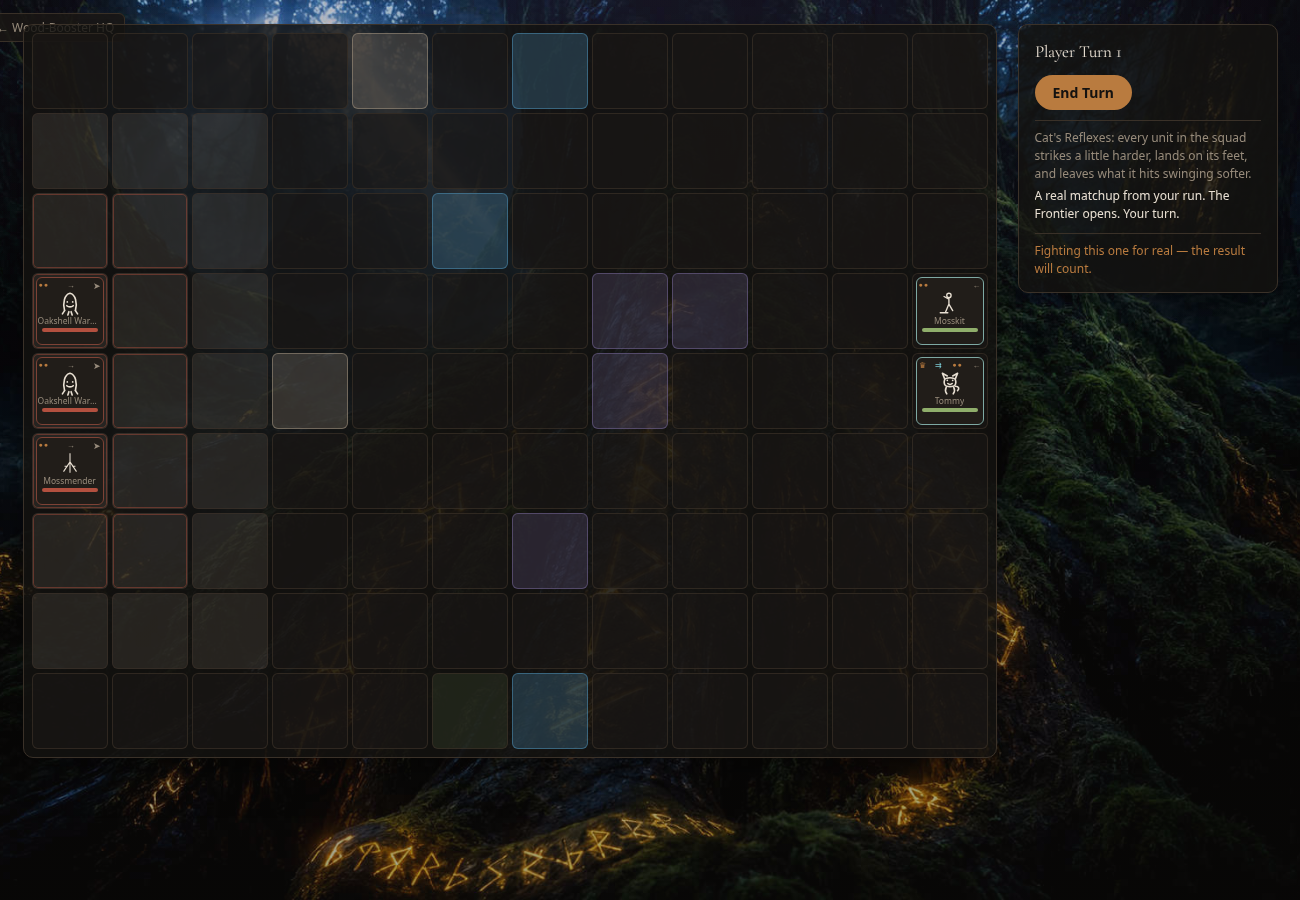
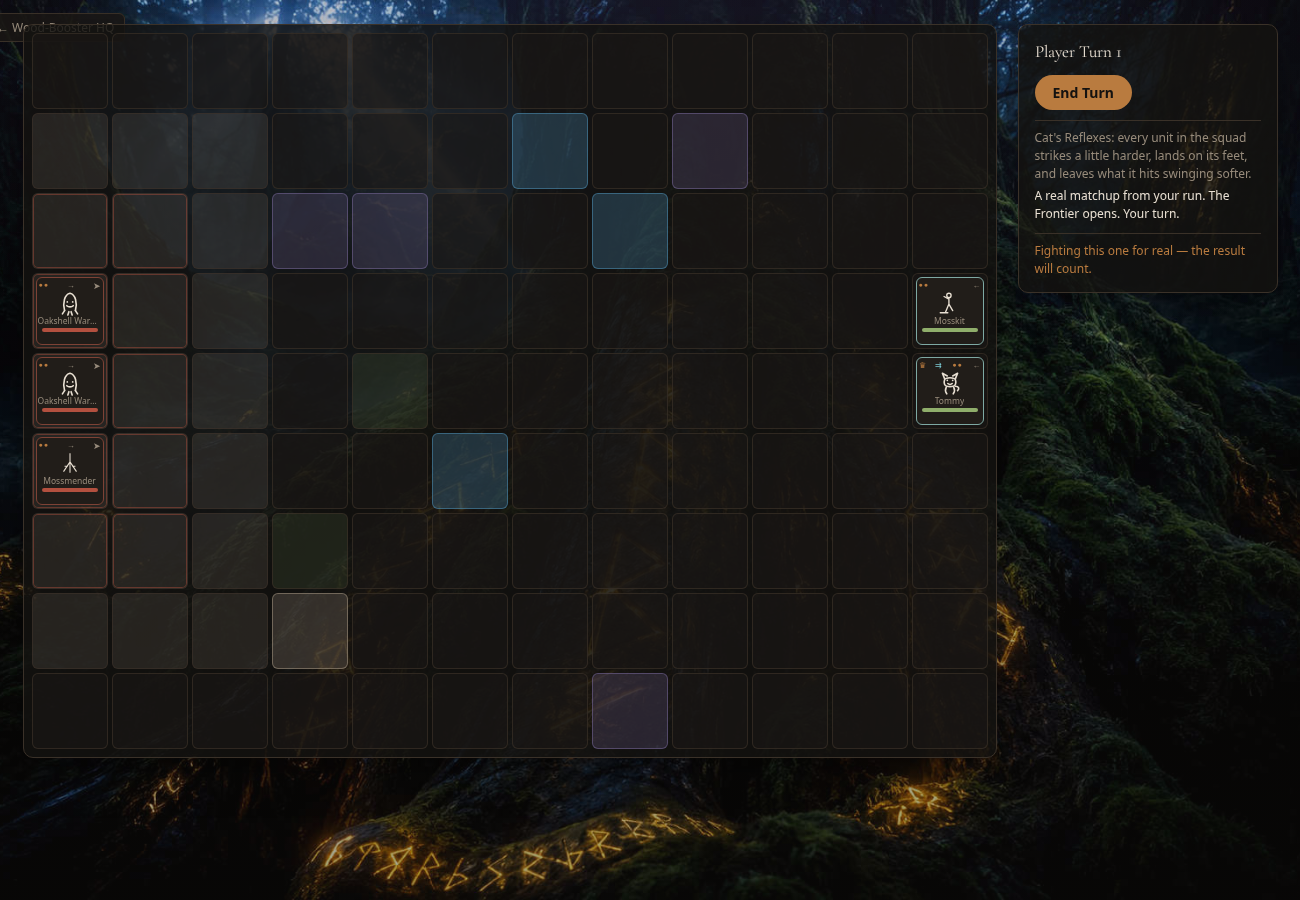
Hearthwood Frontier: Difficulty-scaled terrain type mix
The direct follow-up to the terrain density round, which deliberately
left the hazard TYPE mix untouched. Forest (the one zero-effect,
purely cosmetic terrain id - cost 1, identical to plain path) now
shrinks its own share as the Act rises, with what it loses
redistributed proportionally across the 3 real hazards (rock/water/
poison), keeping their existing 30:20:25 relative flavor unchanged.
Act I stays byte-identical to today's own 30/20/25/25 split; by Act
VII the real-hazard share rises from 75% to 93%.

Extended both verify suites (205->210 prototype checks, 35->36
real-battle checks), all passing on the first combined run with 0
page errors.

diff --git a/src/services/heartwood/tacticsRealMatchup.js b/src/services/heartwood/tacticsRealMatchup.js
@@ -39,10 +39,48 @@ const PREVIEWABLE_PHASES = new Set(["formation", "battle"])
 // just the STARTING point (Act I keeps exactly this value) - see
 // terrainHazardCountForNode below for the real per-Act scaling.
 const TERRAIN_HAZARD_COUNT_BASE = 6
-function pickTerrainType(roll) {
-  if (roll < 0.3) return "rock"
-  if (roll < 0.5) return "water"
-  if (roll < 0.75) return "poison"
+
+// Difficulty-scaled terrain TYPE MIX round: forest is the only
+// zero-effect id of the 4 (cost:1 in tacticsEngine.js's own TERRAIN
+// map, byte-identical to plain "path") - rock/water/poison are the 3
+// real hazards. Forest's own share shrinks as the Act rises, and what
+// it loses is redistributed PROPORTIONALLY across the 3 real hazards,
+// keeping their own existing 30:20:25 relative flavor (a 6:4:5 ratio)
+// unchanged - a single clean scaling axis, not a second "which hazard
+// gets scarier" tuning pass nobody asked for. FOREST_WEIGHT_BASE=0.25
+// keeps Act I at EXACTLY today's own 30/20/25/25 split (the same "Act
+// I unchanged" guarantee terrainHazardCountForNode below already
+// established for density). FOREST_WEIGHT_FLOOR is a forward-looking
+// safety net only - never actually engaged within today's real Acts
+// 1-7 (Act VII's own forest share is 0.07, above the 0.05 floor).
+const FOREST_WEIGHT_BASE = 0.25
+const FOREST_WEIGHT_PER_ACT_DROP = 0.03
+const FOREST_WEIGHT_FLOOR = 0.05
+const HAZARD_RELATIVE_WEIGHTS = { rock: 6, water: 4, poison: 5 }
+const HAZARD_RELATIVE_TOTAL = 15
+
+// Exported so verify checks can independently recompute the exact
+// expected weights for any node - the same "recompute, don't trust a
+// remembered value" discipline the density round already established.
+export function terrainWeightsForNode(nodeIndex) {
+  const act = actIndexForNode(nodeIndex, RUN_PATH.length)
+  const forest = Math.max(FOREST_WEIGHT_FLOOR, FOREST_WEIGHT_BASE - FOREST_WEIGHT_PER_ACT_DROP * (act - 1))
+  const remaining = 1 - forest
+  return {
+    rock: remaining * (HAZARD_RELATIVE_WEIGHTS.rock / HAZARD_RELATIVE_TOTAL),
+    water: remaining * (HAZARD_RELATIVE_WEIGHTS.water / HAZARD_RELATIVE_TOTAL),
+    poison: remaining * (HAZARD_RELATIVE_WEIGHTS.poison / HAZARD_RELATIVE_TOTAL),
+    forest,
+  }
+}
+
+// Exported alongside terrainWeightsForNode so verify checks can prove
+// this function genuinely reads the passed weights (boundary-roll
+// behavior), not leftover hardcoded thresholds.
+export function pickTerrainType(roll, weights) {
+  if (roll < weights.rock) return "rock"
+  if (roll < weights.rock + weights.water) return "water"
+  if (roll < weights.rock + weights.water + weights.poison) return "poison"
   return "forest"
 }
 
@@ -81,13 +119,14 @@ export function generateRealTerrain(seed, nodeIndex) {
   let placed = 0
   let attempts = 0
   const hazardCount = terrainHazardCountForNode(nodeIndex)
+  const weights = terrainWeightsForNode(nodeIndex)
   while (placed < hazardCount && attempts < hazardCount * 4) {
     attempts++
     const row = Math.floor(rng() * GRID.rows)
     const col = 3 + Math.floor(rng() * (GRID.cols - 6))
     const key = `${row}-${col}`
     if (terrain[key]) continue
-    terrain[key] = pickTerrainType(rng())
+    terrain[key] = pickTerrainType(rng(), weights)
     placed++
   }
   return terrain
